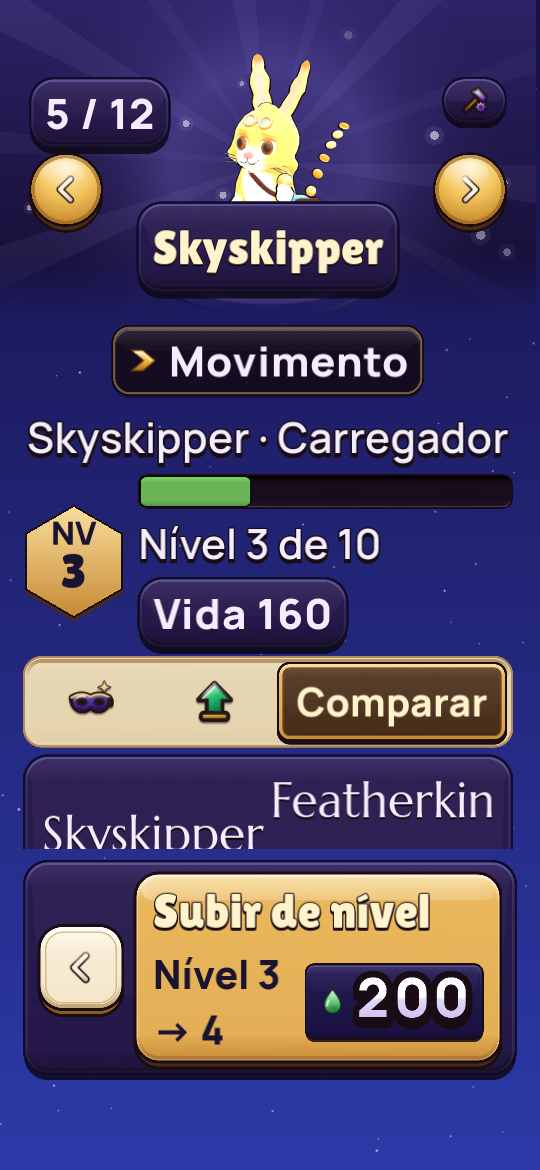
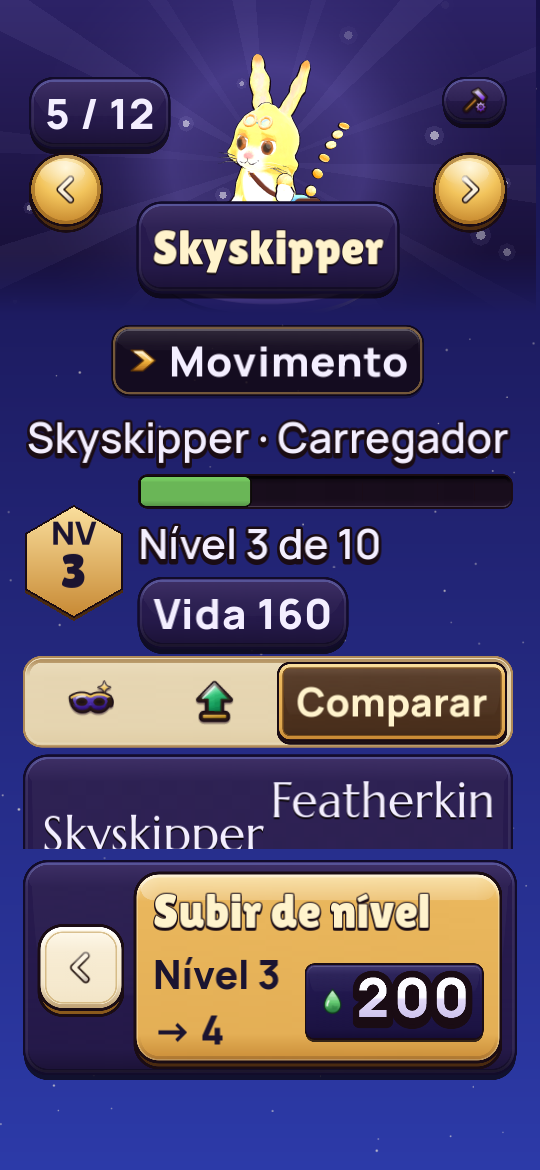
S3: P2-S3-character-4 — backdrop words outlined all round at 200% text, ability kicker stroked
The large-text outline was 12% of the size in all, about 6% a side, so the
2-point drop outweighed it and the gate read a drop alone. Each side is now
the greater of 1.5 points or 12%, set again after the words shrink to fit.
HABILIDADE is stroked as Level up's title is, at large text only. The 200%
stills are re-shot; the 100% and high-contrast stills are unchanged.

Claude-Session: https://claude.ai/code/session_01SNkKxpXsYHy2L9mKvHcZBk

diff --git a/docs/art/tracks/menu-screens.md b/docs/art/tracks/menu-screens.md
@@ -254,6 +254,25 @@ The stills and records are in `docs/art/shots/menu-screens/`, rendered with `FIT
 
 The table gives the ΔL* that `checks.py value-steps` measures. `checks.py all` passes on the three records, with no FAIL. In all three the next arrow, the subtitle ("Mossbear · Wächter" whole) and the tabs are on the first screen, the info grid below them is within the phone's width (the fit check), and the pill reads on two lines in English and pt_BR and three in German. The other character stills are unchanged. Their fixtures (character 5, and 1 to 3) are not at the highest level, and at 100% and in high contrast the pill is built as before.
 
+### The gate's display-type check at a6d5f2fb (P2-S3-character-4)
+
+The gate's advisory verdict on P2-S3-character-3 (`docs/art/ui-quality/gate/verdicts/P2-S3-character-3/a6d5f2fb.json`) failed "character at 200% text, pt_BR" on display type, five samples of six. The subtitle ("Skyskipper · Carregador") and the level line ("Nível 3 de 10") on the starry backdrop showed a dark edge down and right only, thin to nothing on the top and left. The flat gold HABILIDADE header also differed from the stroked "Subir de nível" header of the same rank.
+
+- **What changed on those labels between 6b7e6b42 and a6d5f2fb: nothing.** The committed still `character-200-pt_BR.png` is the same file at both shas (no pixel differs). Between the two, `character_screen.gd` changed only in `_top_level` (board 5b's K), which builds the tray's pill on character 4, not character 5. The pass at 6b7e6b42 and the fail at a6d5f2fb are two judgments of the same pixels. The treatment was marginal, and this fix makes it unambiguous.
+- **Why it read as a drop.** At large text `_over_stage` set `outline_size` to the greater of 3 points or 12% of the words' size. Godot's `outline_size` spans both sides of a glyph's edge, so that was about 6% a side, half of §21.8's 12%. The 2-point drop below then outweighed it at the foot of the letters, and the top and left edges were a pixel wide in the half-size still.
+- **The fix.** `_ink_large` in `client/scripts/character_screen.gd` sets the outline at §21.8's least a side: 1.5 points or 12% of the words' size, whichever is more (`OUTLINE_POINTS`, `OUTLINE_SHARE`), so `outline_size` is twice that. For the 16-point subtitle at 200% (88 px), that is 21 px against 11 before. For the 14-point level line (77 px), it is 19 against 9. When `_wrap_in` shrinks the words to fit, it sets the outline again from the size shown. The drop stays as it was: 2 points, in ink. At 100% text the backdrop's words keep `ScreenKit.inked`, as before.
+- **HABILIDADE.** At large text, the ability card's kicker is stroked and dropped in ink as Level up's title is (`_stroke`, display_s's outline × 1.5 and its drop), keeping the top gold that S3-R4 gave it. Level up's title now uses the same `_stroke`, with the same values as before. At 100% the kicker is as before, so "character at 100% text" sees the same pixels.
+- **The dock and the last card.** At 200% text, scrolled to the end, every tab's last card stands clear above the Level up dock in English, pt_BR and German (nine renders, `TEXT=200 LOCALE=<locale> TAB=<0..2> SCROLL=99999`). The scroll's foot already leaves the dock's height under the column. The hierarchy samples that saw the ability card clipped by the dock looked at the first screen, where it runs on under the dock as scroll content (key frame 04's header band does the same).
+- **A kit defect found on the way (S3-R32).** On the Stats tab at 200% in English and pt_BR, scrolled to the end, the parchment behind the tiles and their note is not drawn once its top has scrolled off the screen. The note's dark-brown words then stand on the night backdrop. It shows at SCROLL=1600 and after, and not at 1400. It shows on main without this task's change too, and German's shorter page is not affected. The parchment is the kit's box (`client/ui/rb_box.gd`, K1's), so it goes to K1 through the lead. No committed still shows it.
+
+#### Evidence
+
+Rendered on this task's code with `FIT=1` (and `RECORD=1` for the recorded ones) and the env in Part 2's tables. Every still printed `fit ok`.
+
+- **Changed:** `character-200-pt_BR.png`, `character-200-en.png`, `character-200-de.png`, `character-200-{en,pt_BR,de}-4.png`, and `character-200-pt_BR-stats.png` and `-compare.png`. Only the subtitle, the level line and (on the Heist tab) the ability's kicker differ. Their records are unchanged, and `checks.py all` passes on the six, with no FAIL and the same ΔL* as before. The draw calls at 200% are 69, against 66.
+- **The same pixels as before:** `character-100.png`, `-100-pt_BR`, `-100-de`, `-100-stats`, `-100-compare`, `character-hc.png`, `-hc-pt_BR` and `character-200-pt_BR-scrolled.png`.
+- **Fit check:** `fit_character.sh` (lesson M26, every fixture state): running at this commit, with the result in the handoff.
+
 ## Part 3: the settings screen (P2-S3-settings)
 
 ### What was done
